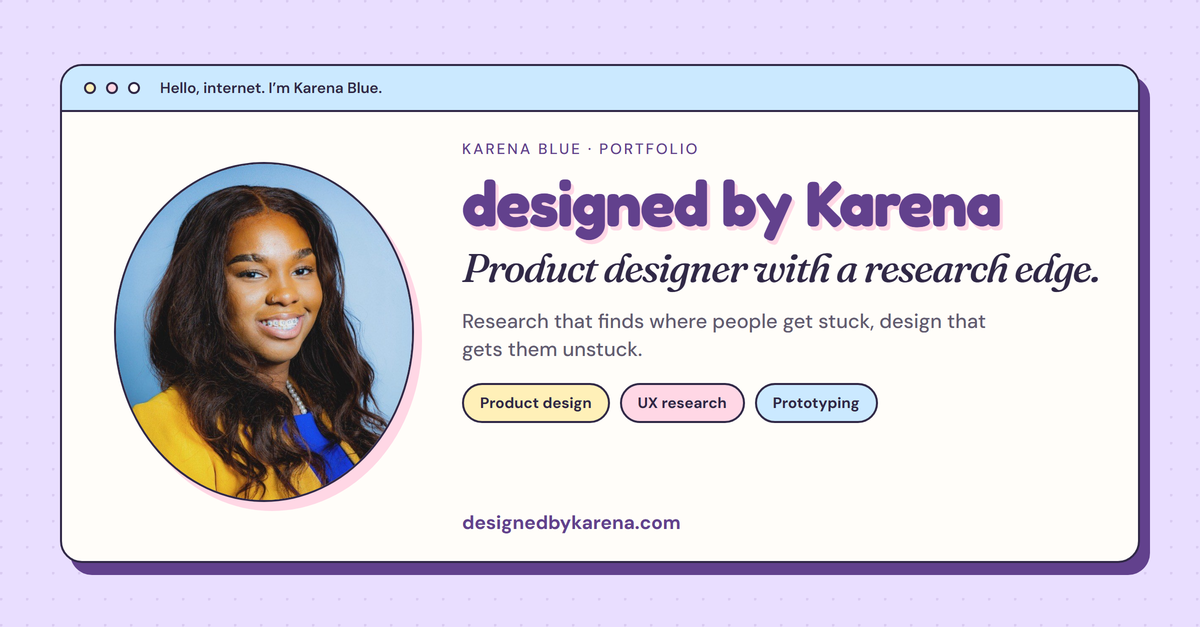
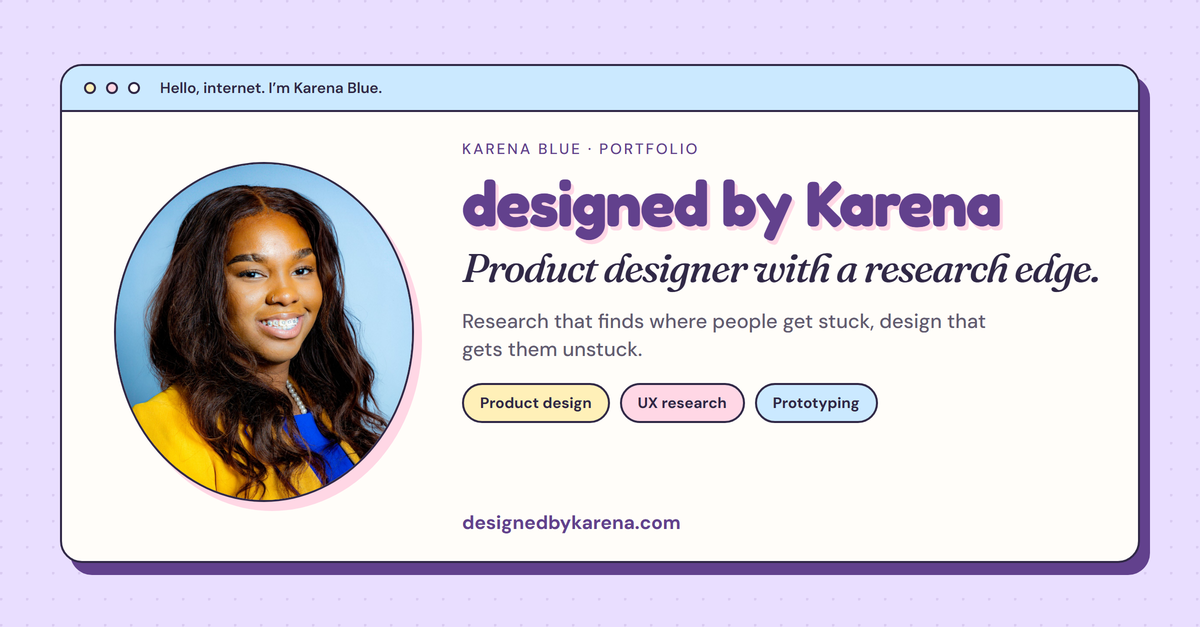
Use a high-resolution headshot and fix prototype contrast
Replace the 800px headshot with a 1600px version so it stays sharp on
high-density screens, refresh the share thumbnail, and darken the SHEIN
prototype's sale price, placeholder, and confirmation text to meet AA.

Changed region(s): [[0.0925, 0.6061, 0.3083, 0.8182], [0.2158, 0.3333, 0.2467, 0.3636]]

diff --git a/case-study.css b/case-study.css
@@ -592,7 +592,7 @@ th,td,.task p,.benchmark-card p,.principle p,.persona-body p,
 .stakeholder a:hover{background:var(--ink);color:#fff}
 
 /* ---------- SHEIN case study: on-page prototype ---------- */
-.shein-demo{--k:#222;--s:#666;--f:#959595;--l:#e5e5e5;--p:#f6f6f6;--o:#fa6338;--ok:#198055;margin:16px 0 8px;padding:clamp(12px,3vw,28px);border-radius:20px;background:#eef0f7}
+.shein-demo{--k:#222;--s:#666;--f:#6b6b6b;--l:#e5e5e5;--p:#f6f6f6;--o:#cf3f0e;--ok:#14704a;margin:16px 0 8px;padding:clamp(12px,3vw,28px);border-radius:20px;background:#eef0f7}
 .sd-controls{display:flex;flex-wrap:wrap;justify-content:space-between;align-items:center;gap:10px;margin-bottom:14px}
 .sd-controls .sd-right{display:flex;gap:8px;flex-wrap:wrap}
 .sd-views{display:inline-flex;padding:4px;border-radius:999px;background:#fff;border:1px solid var(--line-color)}
@@ -647,7 +647,7 @@ th,td,.task p,.benchmark-card p,.principle p,.persona-body p,
 .sd-size[aria-pressed="true"]{border:2px solid var(--k);font-weight:800}
 .sd-size:disabled{background:var(--p);color:var(--f);text-decoration:line-through;cursor:not-allowed}
 .sd-primary{min-height:42px;padding:0 16px;border:0;background:#000;color:#fff !important;font-weight:800;font-size:12px;letter-spacing:.04em;text-transform:uppercase}
-.sd-primary:disabled{background:var(--l);color:var(--f) !important;cursor:not-allowed}
+.sd-primary:disabled{background:var(--l);color:var(#595959) !important;cursor:not-allowed}
 .sd-secondary{min-height:40px;padding:0 16px;border:1px solid var(--k);background:#fff;font-weight:800;font-size:12px;letter-spacing:.04em;text-transform:uppercase}
 .sd-added{display:flex;align-items:center;justify-content:center;gap:6px;padding:10px;border-radius:4px;background:#ebf6f0;color:var(--ok);font-weight:800;font-size:12px}
 .sd-empty{display:grid;justify-items:center;gap:12px;padding:44px 24px;border-radius:8px;background:#fff;text-align:center}
@@ -675,7 +675,7 @@ th,td,.task p,.benchmark-card p,.principle p,.persona-body p,
 .sd-sheet-item p{margin:0 0 4px;font-size:12px}
 .sd-toast{position:absolute;left:12px;right:12px;bottom:16px;display:flex;align-items:center;gap:8px;padding:12px 14px;border-radius:8px;background:var(--k);color:#fff;font-weight:800;font-size:12px}
 .sd-status{min-height:1.4em;margin:12px 0 0;font-size:.84rem;color:var(--muted)}
-.sd-vars{--k:#222;--s:#666;--f:#959595;--l:#e5e5e5;--p:#f6f6f6;--o:#fa6338;--ok:#198055}
+.sd-vars{--k:#222;--s:#666;--f:#6b6b6b;--l:#e5e5e5;--p:#f6f6f6;--o:#cf3f0e;--ok:#14704a}
 .sd-specimen-row{display:flex;flex-wrap:wrap;align-items:center;gap:12px}
 .sd-cap{margin:14px 0 0;font-family:"Inter",sans-serif;font-size:.84rem;line-height:1.55;color:var(--muted)}
 .sd-cap strong{color:var(--ink)}

diff --git a/index.html b/index.html
@@ -132,8 +132,8 @@
                   ><img
                     src="images/headshot.jpg"
                     alt="Karena Blue smiling"
-                    width="800"
-                    height="800"
+                    width="1600"
+                    height="1565"
                     fetchpriority="high"
                   /><span class="portrait-prompt"
                     >The person behind the questions

diff --git a/about.html b/about.html
@@ -64,8 +64,8 @@
             <img
               src="images/headshot.jpg"
               alt="Portrait of Karena Blue"
-              width="800"
-              height="800"
+              width="1600"
+              height="1565"
             />
             <figcaption>Karena Blue / researcher, designer, builder</figcaption>
             <svg
